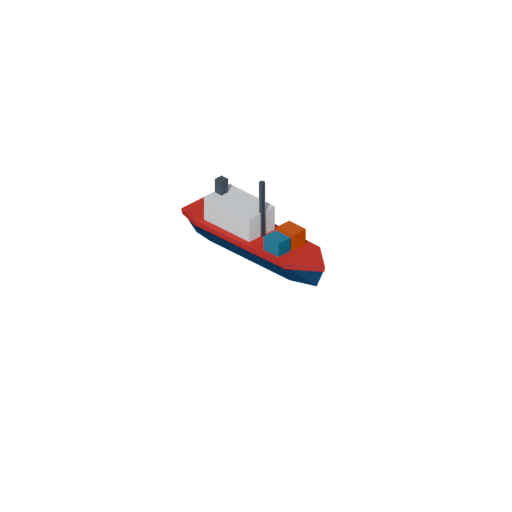
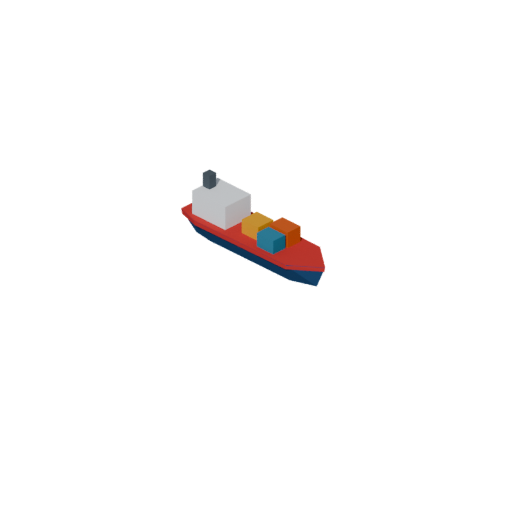
Put a worker on the pier, and give the boats and buildings something to say
Three complaints from a played game, answered together because they are all
about the same thing: the map had no detail to read.

The worker only ever existed as "#1" on a chip. Now a figure stands on the
planking when a berth is staffed, and moves while the operation runs, so an
occupied berth reads without reading text. The illustrated portrait stays on
the roster card, where a portrait belongs.

The three boats shared one hull and differed by what sat on the deck, so they
read as one boat with props swapped. The fishing boat now has its own hull —
shorter, narrower, with a derrick and nets — and a green hull rather than navy.
Silhouette and hull colour, not a different stripe. The two cargo boats keep
the shared hull but differ in superstructure and stacking.

The buildings were smooth boxes with the top face painted roof-coloured; at a
distance they read as blocks of colour. They have doors, windows and an
overhanging eave now. A door is what gives a building its scale — nothing else
was needed.

Two traps found on the way, both recorded in the briefing:

Blender's +Y is the map's -my. Screen-right in Blender is the vector (+X, +Y),
both ground axes pulling right, while the map's tela_x = (mx - my) * MEIA_LARG
sends +my left. A prop symmetric in Y never shows it, which is why the pier
passed; the first asymmetric one landed 40px out. Placement now goes through
pos(mx, my, altura_px) so map coordinates are what gets written.
[…]

Changed region(s): [[0.4375, 0.3438, 0.5938, 0.5], [0.375, 0.3125, 0.4688, 0.4375]]

diff --git a/tools/gerar_props_iso.py b/tools/gerar_props_iso.py
@@ -102,6 +102,8 @@ PALETA = {
     "telhado": "#c85420", "telhado_velho": "#8f6a4a", "parede": "#eef2f5",
     "laranja": "#c85420", "azul": "#2f7690", "amarelo": "#e09a10",
     "boia": "#d94f2a", "corda": "#c9b48a",
+    "colete": "#e0561f", "capacete": "#e0a81f", "pele": "#b07b52",
+    "calca": "#24466e", "rede": "#8d9aa6", "casco_pesca": "#2f6f4a",
 }
 
 
@@ -125,6 +127,22 @@ def material(nome: str, hexa: str):
 
 
 # ---------------------------------------------------------------- geometria
+def pos(mx: float, my: float, altura_px: float = 0.0) -> tuple:
+    """Coordenada DO MAPA -> coordenada do Blender.
+
+    O sinal de Y é invertido, e isso não é capricho. No Blender a direita da
+    tela é o vetor (+X, +Y): os dois eixos do chão puxam para a direita. No
+    mapa, `tela_x = (mx - my) * MEIA_LARG` — o +my puxa para a ESQUERDA.
+    Logo `y_blender = -my`.
+
+    Um prop simétrico em Y não denuncia a diferença, e por isso o píer passou
+    despercebido; o primeiro prop assimétrico (o trabalhador, que fica de lado
+    no tabuado) saiu 40px fora do lugar. Use isto sempre que a posição vier de
+    coordenadas do mapa.
+    """
+    return (mx, -my, z(altura_px))
+
+
 def caixa(nome, centro, tam, mat, rot=(0, 0, 0)):
     bpy.ops.mesh.primitive_cube_add(size=1.0, location=centro)
     o = bpy.context.active_object
@@ -219,25 +237,68 @@ def montar(M: dict) -> dict:
     grupos["guindaste_lanca"] = g_lanca
     grupos["pier_ampliado"] = estacas + tabuado + g_base + g_mastro + g_lanca
 
-    # -- BARCOS: um casco só, cargas diferentes --------------------------
-    CONTORNO = [(2.30, 0.0), (1.55, 0.58), (-1.45, 0.62), (-2.05, 0.44),
-                (-2.05, -0.44), (-1.45, -0.62), (1.55, -0.58)]
-    casco = [prisma("casco", CONTORNO, 0.0, 0.62, (0.88, 0.42), M["casco"]),
-             prisma("faixa", CONTORNO, 0.50, 0.64, (0.99, 0.97), M["faixa"]),
-             caixa("cabine", (-0.55, 0.0, 0.95), (1.5, 0.85, 0.62), M["cabine"]),
-             caixa("chamine", (-1.15, 0.0, 1.42), (0.22, 0.22, 0.42), M["metal"])]
-    grupos["barco_pequeno"] = casco + [
-        caixa("rede", (0.9, 0.0, 0.78), (0.7, 0.6, 0.28), M["corda"]),
-        caixa("mastro_p", (0.55, 0.0, 1.25), (0.09, 0.09, 1.3), M["metal"])]
-    grupos["barco_medio"] = casco + [
-        caixa("carga_a", (0.95, 0.22, 0.85), (0.55, 0.42, 0.42), M["laranja"]),
-        caixa("carga_b", (0.95, -0.25, 0.82), (0.5, 0.4, 0.38), M["azul"]),
-        caixa("mastro_m", (0.2, 0.0, 1.35), (0.1, 0.1, 1.5), M["metal"])]
-    grupos["barco_grande"] = casco + [
-        caixa("pilha_a", (1.05, 0.2, 0.86), (0.6, 0.45, 0.44), M["laranja"]),
-        caixa("pilha_b", (1.05, -0.25, 0.86), (0.6, 0.45, 0.44), M["azul"]),
-        caixa("pilha_c", (1.05, 0.0, 1.28), (0.58, 0.44, 0.42), M["amarelo"]),
-        caixa("grua", (0.05, 0.0, 1.55), (0.12, 0.12, 1.9), M["metal_claro"])]
+    # -- BARCOS ----------------------------------------------------------
+    # O pesqueiro tinha o mesmo casco dos cargueiros e uma caixa bege no lugar
+    # da carga: os três liam-se como o mesmo barco com adereços trocados. Agora
+    # ele tem casco PRÓPRIO, mais curto e mais estreito, e o que carrega é
+    # pau-de-carga e rede — silhueta diferente, não pintura diferente.
+    CARGA = [(2.30, 0.0), (1.55, 0.58), (-1.45, 0.62), (-2.05, 0.44),
+             (-2.05, -0.44), (-1.45, -0.62), (1.55, -0.58)]
+    PESCA = [(1.55, 0.0), (1.05, 0.42), (-0.95, 0.46), (-1.40, 0.32),
+             (-1.40, -0.32), (-0.95, -0.46), (1.05, -0.42)]
+
+    def casco(sufixo, contorno, altura, cor_casco, cor_faixa):
+        return [prisma("casco" + sufixo, contorno, 0.0, altura, (0.88, 0.42), cor_casco),
+                prisma("faixa" + sufixo, contorno, altura - 0.12, altura + 0.02,
+                       (0.99, 0.97), cor_faixa)]
+
+    grupos["barco_pequeno"] = casco("_p", PESCA, 0.44, M["casco_pesca"], M["cabine"]) + [
+        caixa("cabine_p", (-0.75, 0.0, 0.70), (0.85, 0.62, 0.50), M["cabine"]),
+        caixa("mastro_p", (0.25, 0.0, 1.25), (0.09, 0.09, 1.7), M["madeira_esc"]),
+        # Pau-de-carga inclinado: é o que diz "pesqueiro" à primeira vista.
+        caixa("pau", (0.72, 0.0, 1.35), (1.3, 0.07, 0.07), M["madeira_esc"],
+              rot=(0, -26, 0)),
+        caixa("rede_p", (-0.15, 0.0, 0.60), (0.7, 0.5, 0.26), M["rede"]),
+        caixa("boia_p", (1.05, 0.30, 0.52), (0.2, 0.2, 0.18), M["boia"])]
+
+    grupos["barco_medio"] = casco("_m", CARGA, 0.62, M["casco"], M["faixa"]) + [
+        caixa("cabine_m", (-1.15, 0.0, 0.95), (1.1, 0.85, 0.62), M["cabine"]),
+        caixa("chamine_m", (-1.55, 0.0, 1.42), (0.22, 0.22, 0.42), M["metal"]),
+        caixa("carga_a", (0.75, 0.22, 0.85), (0.6, 0.42, 0.42), M["laranja"]),
+        caixa("carga_b", (0.75, -0.25, 0.82), (0.55, 0.4, 0.38), M["azul"]),
+        caixa("carga_c", (0.05, 0.0, 0.82), (0.55, 0.5, 0.38), M["amarelo"])]
+
+    grupos["barco_grande"] = casco("_g", CARGA, 0.62, M["casco"], M["faixa"]) + [
+        caixa("cabine_g", (-1.35, 0.0, 1.00), (0.95, 0.8, 0.72), M["cabine"]),
+        caixa("chamine_g", (-1.7, 0.0, 1.52), (0.24, 0.24, 0.46), M["metal"]),
+        caixa("pilha_a", (0.95, 0.22, 0.86), (0.7, 0.42, 0.44), M["laranja"]),
+        caixa("pilha_b", (0.95, -0.25, 0.86), (0.7, 0.42, 0.44), M["azul"]),
+        caixa("pilha_c", (0.95, 0.0, 1.30), (0.68, 0.42, 0.42), M["amarelo"]),
+        caixa("pilha_d", (0.05, 0.1, 0.86), (0.6, 0.5, 0.44), M["azul"]),
+        caixa("grua_g", (-0.5, 0.0, 1.65), (0.13, 0.13, 2.0), M["metal_claro"]),
+        caixa("lanca_g", (0.25, 0.0, 2.5), (1.6, 0.11, 0.11), M["metal_claro"],
+              rot=(0, -18, 0))]
+
+    # -- TRABALHADOR no píer: até agora ele só existia como "#1" na chip.
+    # De pé no tabuado, a doca ocupada lê-se sem ter de ler texto.
+    # Fica do lado de TERRA e afastado do centro, porque o barco atraca do
+    # outro lado e a chip cobre o meio do convés.
+    # Em coordenadas DO MAPA: recuado para terra (mx negativo) e do lado oposto
+    # ao barco, que atraca no +my. A conversão de eixo fica toda em pos().
+    MX, MY = -1.35, -0.68
+    ALT = 15.0                     # topo do tabuado, em pixels do mapa
+    def _t(nome, subir_px, tam_px, mat, dmx=0.0):
+        px, py, pz = pos(MX + dmx, MY, ALT + subir_px)
+        return caixa(nome, (px, py, pz),
+                     (tam_px[0], tam_px[1], z(tam_px[2])), mat)
+
+    grupos["trabalhador"] = [
+        _t("t_pernas", 5.0, (0.20, 0.17, 10.0), M["calca"]),
+        _t("t_corpo", 15.5, (0.30, 0.24, 11.5), M["colete"]),
+        _t("t_cabeca", 24.0, (0.18, 0.16, 6.0), M["pele"]),
+        _t("t_capacete", 28.2, (0.25, 0.23, 4.4), M["capacete"]),
+        _t("t_aba", 26.6, (0.34, 0.25, 1.8), M["capacete"], dmx=0.06),
+    ]
 
     # -- COQUEIRO: copa e tronco separados, para o balanço ---------------
     grupos["coqueiro_tronco"] = [

diff --git a/tools/gerar_mapa_iso.py b/tools/gerar_mapa_iso.py
@@ -56,6 +56,7 @@ C = {
     "asfalto": "#6f7b85", "madeira": "#9a6438", "madeira_dir": "#633d20",
     "madeira_esq": "#7a4d2a", "telhado": "#c85420", "parede": "#eef2f5",
     "parede_dir": "#b3bfc7", "parede_esq": "#cfd8de", "verde": "#2d7a3a",
+    "vidro": "#7fb6cc", "porta": "#5a3a20",
 }
 
 
@@ -81,6 +82,52 @@ def caixa(x0, y0, x1, y1, base, altura, topo, dir_, esq) -> str:
     s = poli([p(x1, y0, t), p(x1, y1, t), p(x1, y1, base), p(x1, y0, base)], dir_)
     s += poli([p(x0, y1, t), p(x1, y1, t), p(x1, y1, base), p(x0, y1, base)], esq)
     s += poli([p(x0, y0, t), p(x1, y0, t), p(x1, y1, t), p(x0, y1, t)], topo)
+    return s
+
+
+# As duas faces visíveis de um volume isométrico. Servem para pintar aberturas
+# em cima de uma parede já desenhada, sem redesenhar o volume.
+def face_mx(mx, my0, my1, z0, z1, cor) -> str:
+    return poli([p(mx, my0, z1), p(mx, my1, z1), p(mx, my1, z0), p(mx, my0, z0)], cor)
+
+
+def face_my(my, mx0, mx1, z0, z1, cor) -> str:
+    return poli([p(mx0, my, z1), p(mx1, my, z1), p(mx1, my, z0), p(mx0, my, z0)], cor)
+
+
+def predio(mx0, my0, mx1, my1, base, altura, telhado, telhado_dir, telhado_esq,
+           janelas: int = 2) -> str:
+    """Prédio com porta, janelas e telhado que sobressai.
+
+    Antes eram caixas lisas com a face de cima pintada de telhado: à distância
+    liam-se como blocos de cor. O que dá escala a um edifício é a ABERTURA —
+    uma porta diz de que tamanho é a construção sem precisar de mais nada.
+    """
+    t = base + altura
+    s = caixa(mx0, my0, mx1, my1, base, altura,
+              C["parede"], C["parede_dir"], C["parede_esq"])
+
+    # Porta na face +my (a que fica virada para o cais).
+    meio = (mx0 + mx1) / 2
+    s += face_my(my1, meio - 0.55, meio + 0.55, base, base + min(16, altura - 8),
+                 C["porta"])
+
+    # Janelas nas duas faces visíveis, distribuídas ao longo do vão.
+    alt_j0, alt_j1 = base + altura * 0.52, base + altura * 0.78
+    vao_y = (my1 - my0) / (janelas + 1)
+    for i in range(1, janelas + 1):
+        cy = my0 + vao_y * i
+        s += face_mx(mx1, cy - 0.42, cy + 0.42, alt_j0, alt_j1, C["vidro"])
+    vao_x = (mx1 - mx0) / (janelas + 1)
+    for i in range(1, janelas + 1):
+        cx = mx0 + vao_x * i
+        if abs(cx - meio) < 0.75:
+            continue                       # não abre janela em cima da porta
+        s += face_my(my1, cx - 0.42, cx + 0.42, alt_j0, alt_j1, C["vidro"])
+
+    # Telhado sobressaindo dos quatro lados — é o beiral que faz parecer coberto.
+    s += caixa(mx0 - 0.3, my0 - 0.3, mx1 + 0.3, my1 + 0.3, t, 8,
+               telhado, telhado_dir, telhado_esq)
     return s
 
 
@@ -129,12 +176,10 @@ def gerar(com_pieres: bool = True) -> str:
 
     # ---- prédios no pátio, de trás para a frente ----
     B = ALT_CAIS
-    s += caixa(-1.0, -3.5, 3.0, 0.5, B, 34, C["telhado"], "#8f3822", "#a8452a")
-    s += caixa(2.0, 5.0, 6.4, 9.4, B, 44, C["parede"], C["parede_dir"], C["parede_esq"])
-    s += poli([p(2.0, 5.0, B + 44), p(6.4, 5.0, B + 44),
-               p(6.4, 9.4, B + 44), p(2.0, 9.4, B + 44)], C["telhado"])
-    s += caixa(6.0, 13.0, 10.4, 17.4, B, 32, C["telhado"], "#8f3822", "#a8452a")
-    s += caixa(10.0, 21.0, 14.4, 25.4, B, 30, C["parede"], C["parede_dir"], C["parede_esq"])
+    s += predio(-1.0, -3.5, 3.0, 0.5, B, 34, C["telhado"], "#8f3822", "#a8452a")
+    s += predio(2.0, 5.0, 6.4, 9.4, B, 44, "#3f6f4a", "#2a4d33", "#335c3d", 3)
+    s += predio(6.0, 13.0, 10.4, 17.4, B, 32, C["telhado"], "#8f3822", "#a8452a")
+    s += predio(10.0, 21.0, 14.4, 25.4, B, 30, "#3f6f4a", "#2a4d33", "#335c3d")
 
     cores = [("#c23030", "#7a1a1a", "#8f2020"), ("#2f74b0", "#1d4a75", "#245a8c"),
              ("#e0a81f", "#9c7a15", "#b8901a"), ("#2d7a3a", "#19512d", "#1f6236")]
@@ -162,7 +207,9 @@ def main() -> int:
     args = [a for a in sys.argv[1:] if not a.startswith("--")]
     com_pieres = "--sem-pieres" not in sys.argv
     destino = args[0] if args else "porto_mapa_iso.svg"
-    open(destino, "w", encoding="utf-8").write(gerar(com_pieres))
+    conteudo = gerar(com_pieres)      # gerar ANTES de abrir: open(...,"w")
+    with open(destino, "w", encoding="utf-8") as f:   # trunca de imediato, e um
+        f.write(conteudo)                             # erro deixaria o mapa vazio
     print("%s — %dx%d, chão transbordando de propósito (o ecrã é a janela)%s" % (
         destino, LARG, ALT, "" if com_pieres else "  [SEM os píeres]"))
 

diff --git a/docs/BLOCO4_BRIEFING_CONTINUACAO.md b/docs/BLOCO4_BRIEFING_CONTINUACAO.md
@@ -194,11 +194,28 @@ com `xvfb-run` para as capturas.
    câmera longe do alvo e o render sai VAZIO, sem erro nenhum. Faça a conta na
    mão.
 
-7. **A tela do projeto é retrato com aspecto travado** (`stretch/aspect="keep"`,
+7. **O Y do Blender é o −my do mapa.** No Blender a direita da tela é o vetor
+   (+X, +Y) — os dois eixos do chão puxam para a direita. No mapa,
+   `tela_x = (mx - my) * MEIA_LARG`, e o +my puxa para a ESQUERDA. Um prop
+   simétrico em Y não denuncia; o primeiro assimétrico sai 40px fora. Use
+   `pos(mx, my, altura_px)` de `gerar_props_iso.py` e não escreva coordenadas
+   do Blender à mão.
+
+8. **Num Control, `position` É o offset.** Zerá-lo numa animação não "volta ao
+   lugar": atira o nó para o canto do pai e apaga a ancoragem da cena. Guarde
+   a posição de repouso no `_ready()` e anime relativo a ela.
+
+9. **`open(destino, "w").write(gerar())` trunca antes de gerar.** Em Python o
+   `open()` é avaliado primeiro; um erro dentro de `gerar()` deixa o arquivo
+   VAZIO. Pior: o Godot grava `valid=false` no `.import` do arquivo vazio e
+   mantém o veredito mesmo depois de o arquivo voltar — é preciso apagar o
+   `.import` para ele reimportar.
+
+10. **A tela do projeto é retrato com aspecto travado** (`stretch/aspect="keep"`,
    720×1280). Pedir `--resolution` numa proporção diferente não dá erro: devolve
    a imagem espremida. Ferramenta de captura tem de respeitar 720:1280.
 
-8. **Animação não se pede ao gerador.** Barco balançando, chegando, doca
+11. **Animação não se pede ao gerador.** Barco balançando, chegando, doca
    pulsando — tudo é `Tween` sobre sprite existente, zero arte nova. O que
    precisa de arte é **anatomia separada pelo eixo que se move** (copa e tronco
    do coqueiro em arquivos distintos, por exemplo).

diff --git a/docs/ESTADO_DO_PROJETO.md b/docs/ESTADO_DO_PROJETO.md
@@ -136,8 +136,13 @@ escura, cartão branco, botão navy) com `tools/folha_icones.gd`. Cada um foi
 colorido para o fundo onde cai — dois não são reaproveitáveis em qualquer
 lugar, e o cabeçalho de `Icones.gd` diz quais e por quê.
 
-Ainda é placeholder: variações de barco (o GDD pede 3, existem 2) e o
-trabalhador visto de cima.
+Os **3 barcos do GDD** existem (pesqueiro, cargueiro médio e grande), e o
+pesqueiro tem casco próprio — não é o mesmo casco com carga trocada. O
+**trabalhador aparece de pé no tabuado** quando alocado, e mexe-se enquanto a
+operação corre.
+
+Ainda é placeholder o **retrato ilustrado do trabalhador** no cartão da
+fileira, que é de outra leva e de outra linguagem visual.
 
 A **Zona de Espera é só visual**: os barcos ancorados são decorativos e não
 representam fila de verdade — barcos continuam nascendo direto nas docas.
